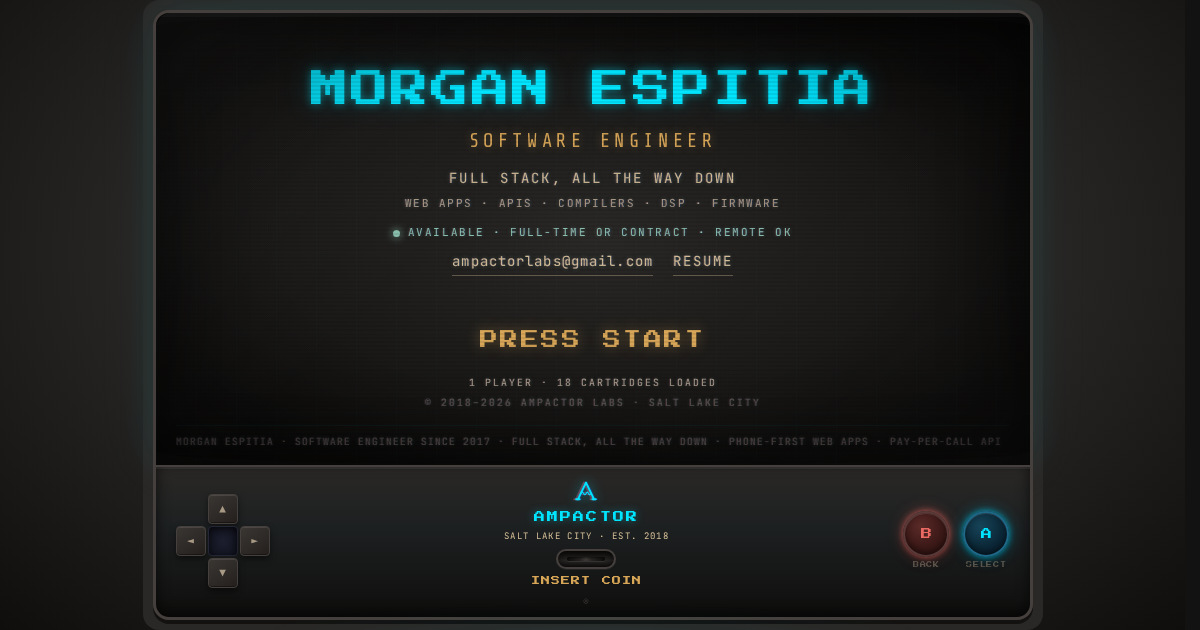
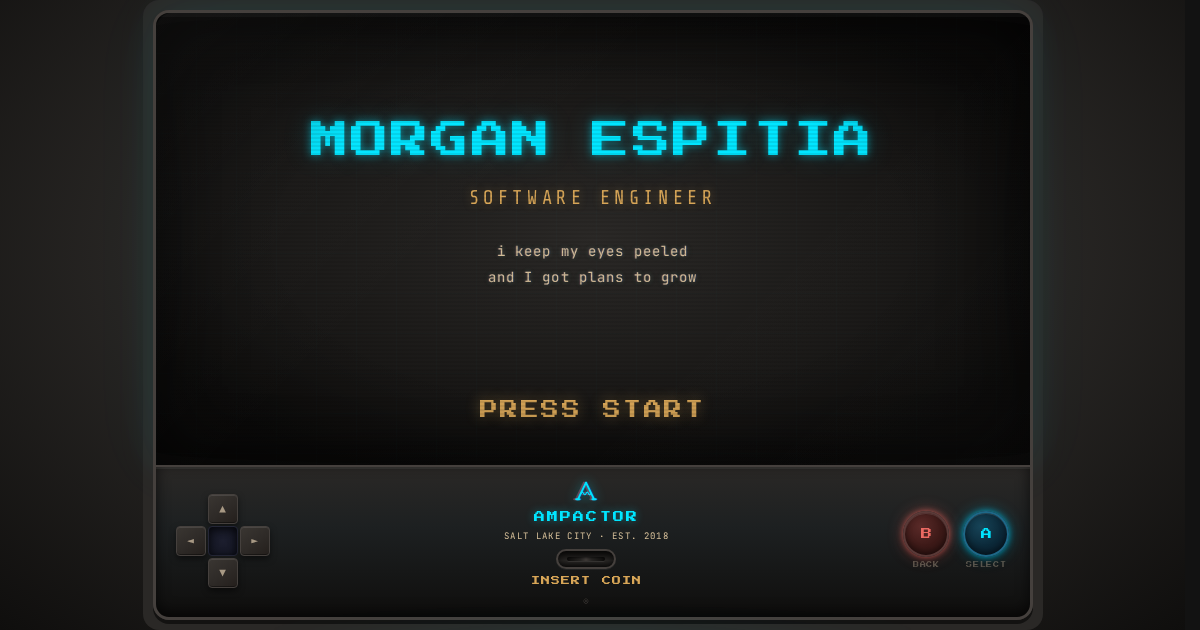
words: Morgan's own, where the cabinet speaks for its operator
Three places on the cabinet spoke for the operator in sentences Claude
wrote: the boot's last line before READY. (the pitch), the title card
(the pitch and its range, the availability line) and the end of the
credits roll (DESIGNED, BUILT, TESTED AND SHIPPED BY THE OPERATOR, then
THANK YOU FOR PLAYING). They carry Morgan's own lines now, verbatim, from
WORDS in src/data/profile.js:

- the boot signs off "no jokers in my deck", lit cyan like the OPERATOR:
  line, then READY.
- under the role on the title card: "i keep my eyes peeled / and I got
  plans to grow", two lines as written
- the credits roll ends on "MAKE ART WITH YOUR FRIENDS"

WORDS is the one place for them, and its comment says what Claude may
do with them (cut) and may not (write). The social card is re-rendered
from the title card. The craft page's stated boot length follows the
two added lines: 1.4 s after the tube lights.

Checked: lint 0 errors (the 4 warnings main has); tsc clean; vitest 253
passed (the BIOS ends on the sign-off, lit, then READY.; both lines are
on the title card; the credits end on the sign-off); Playwright 78
passed on desktop and Pixel 7; at 375x548 both lines sit above PRESS
START (their bottom at 246 px, the button at 313); the card reviewed on
desktop, iPhone 13 and 375x548, and the social card by eye.

Claude-Session: https://claude.ai/code/session_01G5eQmDwUh3nhBoPmZtJjNQ

diff --git a/src/arcade/components/screens/__tests__/AttractScreen.test.jsx b/src/arcade/components/screens/__tests__/AttractScreen.test.jsx
@@ -8,6 +8,7 @@ import AttractScreen, {
   topScores,
 } from "../AttractScreen";
 import { PROJECTS } from "../../../../data/projects";
+import { WORDS } from "../../../../data/profile";
 import { summary } from "../../../../data/receiptsSummary";
 
 const fs = (n) => n;
@@ -20,13 +21,14 @@ describe("AttractScreen", () => {
     vi.useRealTimers();
   });
 
-  it("opens on the title card: the name as the page's heading, the role, PRESS START", () => {
+  it("opens on the title card: the name as the page's heading, the role, the operator's lines, PRESS START", () => {
     render(<AttractScreen projects={PROJECTS} fs={fs} />);
     expect(screen.getByTestId("attract-screen").dataset.frame).toBe("title");
     expect(
       screen.getByRole("heading", { level: 1, name: "MORGAN ESPITIA" }),
     ).toBeVisible();
     expect(screen.getByText("SOFTWARE ENGINEER")).toBeInTheDocument();
+    for (const line of WORDS.title) expect(screen.getByText(line)).toBeInTheDocument();
     expect(screen.getByRole("button", { name: "PRESS START" })).toBeInTheDocument();
     // Nothing else on the card: the sticker on the select screen has the rest.
     expect(screen.queryAllByRole("link")).toHaveLength(0);

diff --git a/src/arcade/components/screens/SystemScreen.jsx b/src/arcade/components/screens/SystemScreen.jsx
@@ -2,6 +2,7 @@ import { useEffect, useRef } from "react";
 import { summary } from "../../../data/receiptsSummary";
 import { audit } from "../../../data/audit";
 import resume from "../../../data/resume.json";
+import { WORDS } from "../../../data/profile";
 import { int, monthLabel } from "../../../lib/format";
 
 // The operator's programs: HOW TO PLAY, HIGH SCORES and CREDITS. Same frame
@@ -166,7 +167,8 @@ function HighScores({ color, fs }) {
 }
 
 // The years as an end-credits roll: newest role first, as a résumé reads,
-// then the life before software, then who built this cabinet.
+// then the life before software, then this cabinet, then the operator's
+// sign-off.
 export function creditLines() {
   const years = (r) => `${r.start}–${r.end ?? "NOW"}`;
   const roles = resume.experience.map((r) => ({
@@ -186,7 +188,7 @@ export function creditLines() {
       kind: "line",
       head: `${int(audit.tests.unit)} UNIT TESTS · ${int(audit.tests.browserRuns)} BROWSER TEST RUNS · NO THIRD-PARTY REQUESTS`,
     },
-    { kind: "end", head: "THANK YOU FOR PLAYING" },
+    { kind: "end", head: WORDS.credits },
   ];
 }
 

diff --git a/src/arcade/components/screens/__tests__/BootScreen.test.jsx b/src/arcade/components/screens/__tests__/BootScreen.test.jsx
@@ -2,6 +2,7 @@ import { describe, it, expect, vi } from "vitest";
 import { render } from "@testing-library/react";
 import BootScreen from "../BootScreen";
 import { BOOT_LINES } from "../../../constants";
+import { WORDS } from "../../../../data/profile";
 
 const fs = (size) => size;
 const lines = [
@@ -96,7 +97,7 @@ describe("BootScreen", () => {
     expect(getByText("PRESS ANY KEY")).toBeTruthy();
   });
 
-  it("ends the real BIOS on READY., as the prompt", () => {
+  it("ends the real BIOS on the operator's sign-off, lit, then READY.", () => {
     const { getByText } = render(
       <BootScreen
         lines={BOOT_LINES}
@@ -106,7 +107,8 @@ describe("BootScreen", () => {
         onSkip={onSkip}
       />,
     );
-    expect(BOOT_LINES.at(-1)).toBe("READY.");
+    expect(BOOT_LINES.slice(-3)).toEqual([WORDS.boot, "", "READY."]);
+    expect(getByText(WORDS.boot).style.color).toBe("rgb(0, 229, 255)");
     expect(getByText("READY.").style.color).toBe("var(--color-amber)");
   });
 });

diff --git a/src/arcade/constants.js b/src/arcade/constants.js
@@ -1,4 +1,5 @@
 import { PROJECTS } from "../data/projects";
+import { WORDS } from "../data/profile";
 
 // The marquee on the select screen: what a cabinet's lit sign does, it
 // advertises the games. One cartridge after another, each with its tagline,
@@ -14,7 +15,7 @@ export const MARQUEE_SECONDS = Math.round(MARQUEE_TEXT.length / 2.8);
 // Boot log discipline: every project line is a claim that stays literally
 // true (the cartridge and README carry the receipts). Lines are dot-aligned
 // at 44 chars, the widest that ships on mobile. BootScreen colors any line
-// containing "OK" as a pass.
+// containing "OK" as a pass. The operator signs off before READY.
 export const BOOT_LINES = [
 
   "OPERATOR: MORGAN ESPITIA",
@@ -30,6 +31,8 @@ export const BOOT_LINES = [
   "tokensafe ...... scanning ............... OK",
   "landed ......... gating ................. OK",
   "easter eggs .... hidden ................. OK",
+  "",
+  WORDS.boot,
   "",
   "READY.",
 ];

diff --git a/src/arcade/components/screens/AttractScreen.jsx b/src/arcade/components/screens/AttractScreen.jsx
@@ -1,5 +1,5 @@
 import { useEffect, useState } from "react";
-import { CONTACT } from "../../../data/profile";
+import { CONTACT, WORDS } from "../../../data/profile";
 import { summary } from "../../../data/receiptsSummary";
 import { int } from "../../../lib/format";
 
@@ -79,6 +79,20 @@ function TitleCard({ fs, hidden, nameSize }) {
         }}
       >
         {CONTACT.role}
+      </div>
+      {/* The operator's own lines, as written. */}
+      <div
+        style={{
+          marginTop: 10,
+          fontSize: fs(11),
+          color: "var(--fg)",
+          letterSpacing: "0.08em",
+          lineHeight: 1.9,
+        }}
+      >
+        {WORDS.title.map((line) => (
+          <div key={line}>{line}</div>
+        ))}
       </div>
     </div>
   );

diff --git a/src/data/profile.js b/src/data/profile.js
@@ -39,3 +39,15 @@ export const CONTACT = {
 // The primary call to action. No prefilled subject: whoever writes knows
 // better than a default what the email is about.
 export const MAILTO = `mailto:${CONTACT.email}`;
+
+// Morgan's words, verbatim, where the cabinet speaks for its operator. Claude
+// cuts; it does not write these. An empty slot stays empty until Morgan
+// fills it.
+export const WORDS = {
+  // The last BIOS line before READY.
+  boot: "no jokers in my deck",
+  // Under the role on the title card, two lines as written.
+  title: ["i keep my eyes peeled", "and I got plans to grow"],
+  // The last line of the credits roll.
+  credits: "MAKE ART WITH YOUR FRIENDS",
+};

diff --git a/src/arcade/components/screens/BootScreen.jsx b/src/arcade/components/screens/BootScreen.jsx
@@ -1,4 +1,5 @@
 import TestPattern from "../TestPattern";
+import { WORDS } from "../../../data/profile";
 
 export default function BootScreen({
   lines,
@@ -67,7 +68,7 @@ export default function BootScreen({
               color:
                 i === 0
                   ? "#00E5FF"
-                  : line === "ALL SYSTEMS NOMINAL"
+                  : line === "ALL SYSTEMS NOMINAL" || line === WORDS.boot
                     ? "#00E5FF"
                     : i === lines.length - 1
                       ? "var(--color-amber)"

diff --git a/src/craft/CraftPage.tsx b/src/craft/CraftPage.tsx
@@ -11,7 +11,7 @@ import styles from "./Craft.module.css";
 // imported: a module this page and the cabinet both import would be split
 // into a chunk of its own, adding a request before the cabinet renders. The
 // unit test checks it against the cabinet's real pacing.
-export const BOOT_SECONDS = 1.3;
+export const BOOT_SECONDS = 1.4;
 
 const REPO = "https://github.com/ampactor-labs/ampactor-labs.github.io";
 const source = (path: string) => `${REPO}/blob/main/${path}`;

diff --git a/e2e/arcade.spec.ts b/e2e/arcade.spec.ts
@@ -72,7 +72,7 @@ test("up from the top wraps to CREDITS; B steps out to the list, then the title 
   await expect(
     page.getByRole("heading", { level: 2, name: "CREDITS" }),
   ).toBeVisible();
-  await expect(page.getByText("THANK YOU FOR PLAYING")).toBeAttached();
+  await expect(page.getByText("MAKE ART WITH YOUR FRIENDS")).toBeAttached();
 
   // The panel's B, not the screen's own ◄.
   const B = page.getByRole("button", { name: "Back", exact: true });

diff --git a/e2e/home.spec.ts b/e2e/home.spec.ts
@@ -145,7 +145,7 @@ test("the operator programs open by deep link", async ({ page }) => {
   await expect(
     page.getByRole("heading", { level: 2, name: "CREDITS" }),
   ).toBeVisible();
-  await expect(page.getByText("THANK YOU FOR PLAYING")).toBeVisible();
+  await expect(page.getByText("MAKE ART WITH YOUR FRIENDS")).toBeVisible();
   await expect(page.getByRole("link", { name: /FULL RÉSUMÉ/ })).toHaveAttribute(
     "href",
     "/resume.html",

diff --git a/src/__tests__/App.test.tsx b/src/__tests__/App.test.tsx
@@ -179,7 +179,7 @@ describe("App", () => {
     expect(
       screen.getByRole("heading", { level: 2, name: "CREDITS" }),
     ).toBeInTheDocument();
-    expect(screen.getByText("THANK YOU FOR PLAYING")).toBeInTheDocument();
+    expect(screen.getByText("MAKE ART WITH YOUR FRIENDS")).toBeInTheDocument();
   });
 
   it("corrects an unknown cartridge to the list without a new entry", async () => {

diff --git a/docs/DESIGN-SYSTEM.md b/docs/DESIGN-SYSTEM.md
@@ -242,11 +242,11 @@ off (`global.css`).
 
 | Screen | Spec |
 |---|---|
-| **Title card** (`AttractScreen.jsx`) | `<h1>` name in Press Start, cyan, glowing → `SOFTWARE ENGINEER` in amber → `PRESS START` (a `<button>`). Nothing else: the sticker on the select screen has the contact and the links. The `<h1>` stays in the DOM (visually hidden) on the loop's other frames. It fits a short phone (375×548) above `PRESS START`. |
-| **Boot** (`BootScreen.jsx`) | Phase 0 the test pattern (shared with the attract loop's `TestPattern.jsx`), phase 1 the BIOS column laid out at its final height and printed top to bottom in a burst (`BOOT_LINE_MS`, 40 ms a line), then a beat on the last line, `READY.`, in Press Start and amber, and the title card. Any key or tap skips ahead. |
+| **Title card** (`AttractScreen.jsx`) | `<h1>` name in Press Start, cyan, glowing → `SOFTWARE ENGINEER` in amber → two lines of Morgan's own (`WORDS.title`, `profile.js`), as written → `PRESS START` (a `<button>`). Nothing else: the sticker on the select screen has the contact and the links. The `<h1>` stays in the DOM (visually hidden) on the loop's other frames. It fits a short phone (375×548) above `PRESS START`. |
+| **Boot** (`BootScreen.jsx`) | Phase 0 the test pattern (shared with the attract loop's `TestPattern.jsx`), phase 1 the BIOS column laid out at its final height and printed top to bottom in a burst (`BOOT_LINE_MS`, 40 ms a line); the operator's sign-off (`WORDS.boot`), lit cyan like the `OPERATOR:` line, then a beat on the last line, `READY.`, in Press Start and amber, and the title card. Any key or tap skips ahead. |
 | **Select** (`SelectScreen.jsx`) | The operator's sticker: `SELECT PROGRAM`, `<h1>` `NAME · ROLE`, email and phone as links, and `<nav aria-label="Operator">` with the pills `RESUME` (`/resume.html`) · `GITHUB` · `LINKEDIN`. Then the `listbox` (`Project list`), which takes focus when the screen comes up and names its active row with `aria-activedescendant`: category headers `SYSTEMS · SECURITY · WEB3 · CREATIVE · OPERATOR`, one row per program (icon tile in the program's colour, title in Share Tech Mono, `lang` chip, subtitle), three `[CLASSIFIED] · INSERT COIN TO UNLOCK` rows until the coin drops, the marquee (the cartridges and their taglines, `constants.js`). |
 | **Cartridge readout** (`DetailScreen.jsx`) | `◄` back, icon, `<h2>` title, subtitle, the link rail (demo first, then source), then `outcome` → `desc` → highlights → stack → operator notes in a scrolling, focusable region. |
-| **Operator programs** (`SystemScreen.jsx`, data in `programs.js`) | Same head as a readout, amber. `HOW TO PLAY`: `CONTROLS`, what the panel does; rail `▸ HOW THIS CABINET IS BUILT` (`/craft/`) · `› THE README STANDARD`. `HIGH SCORES`: the top-10 table (`RANK · NAME · SCORE`, repositories by commits), the last twelve months as bars (`role="img"` with the numbers in its name), the `CO-OP` line; rail `▸ FULL LEDGER` (`/receipts/`) · `› GITHUB`. `CREDITS`: the career roll from `resume.json`, the tests as the crew, `THANK YOU FOR PLAYING`; rail `▸ FULL RÉSUMÉ` · `› SOURCE`. |
+| **Operator programs** (`SystemScreen.jsx`, data in `programs.js`) | Same head as a readout, amber. `HOW TO PLAY`: `CONTROLS`, what the panel does; rail `▸ HOW THIS CABINET IS BUILT` (`/craft/`) · `› THE README STANDARD`. `HIGH SCORES`: the top-10 table (`RANK · NAME · SCORE`, repositories by commits), the last twelve months as bars (`role="img"` with the numbers in its name), the `CO-OP` line; rail `▸ FULL LEDGER` (`/receipts/`) · `› GITHUB`. `CREDITS`: the career roll from `resume.json`, the tests as the crew, and the operator's sign-off (`WORDS.credits`) where `THANK YOU FOR PLAYING` would be; rail `▸ FULL RÉSUMÉ` · `› SOURCE`. |
 | **Panel** (`Cabinet.jsx`) | D-pad (`Navigate up/down/left/right`), `B` (`Back`), `A` (`Select` / `Open link`), the A-mark plate, the coin slot (`Insert coin`). On the title card `◄ ►` step the loop and A starts; on the list the d-pad walks rows and A opens; on a readout up/down scroll, left/right walk the rail, A opens the focused link, B goes back. |
 | **Hidden programs** | Unlocked by the coin, wherever it is dropped; a link straight to one (`/arcade/#tunnel-run`) drops the coin for the visitor. `TUNNEL_RUN` plays on the backdrop with the console faded out. Never linked from the site's own copy. |
 
@@ -396,7 +396,7 @@ power-on plays.
   `--accent-text`, the light overrides, the cabinet's dark island. Add new semantic
   colours here, derived from the palette, not as literals in components.
 - **Heads**: `src/data/site.js`. Rendered into every entry by `vite.config.js`.
-- **Identity and contact**: `src/data/profile.js`.
+- **Identity, contact and Morgan's words**: `src/data/profile.js` (`WORDS`).
 - **The work**: `src/data/projects.js`; content fields follow each README
   (`npm run sync:readmes`). **The operator's programs**: `src/data/programs.js`.
 - **The résumé and the credits**: `src/data/resume.json`; `npm run resume:build`.
@@ -434,7 +434,8 @@ _Paste this block into a design tool as the brand context. Scope any generation 
 > hairline low-alpha borders, radii 6/10/16 px, soft blooms on hover, reduced motion
 > honoured.
 >
-> **Screens, in order:** title card (name → role → PRESS START) → select screen (operator's sticker with RESUME · GITHUB · LINKEDIN, the
+> **Screens, in order:** title card (name → role → two lines of Morgan's → PRESS START)
+> → select screen (operator's sticker with RESUME · GITHUB · LINKEDIN, the
 > cartridges by category, then OPERATOR: HOW TO PLAY · HIGH SCORES · CREDITS) →
 > readouts. **Pages:** header (A-mark, nav, light switch) → the commit log / the case
 > study → footer.
